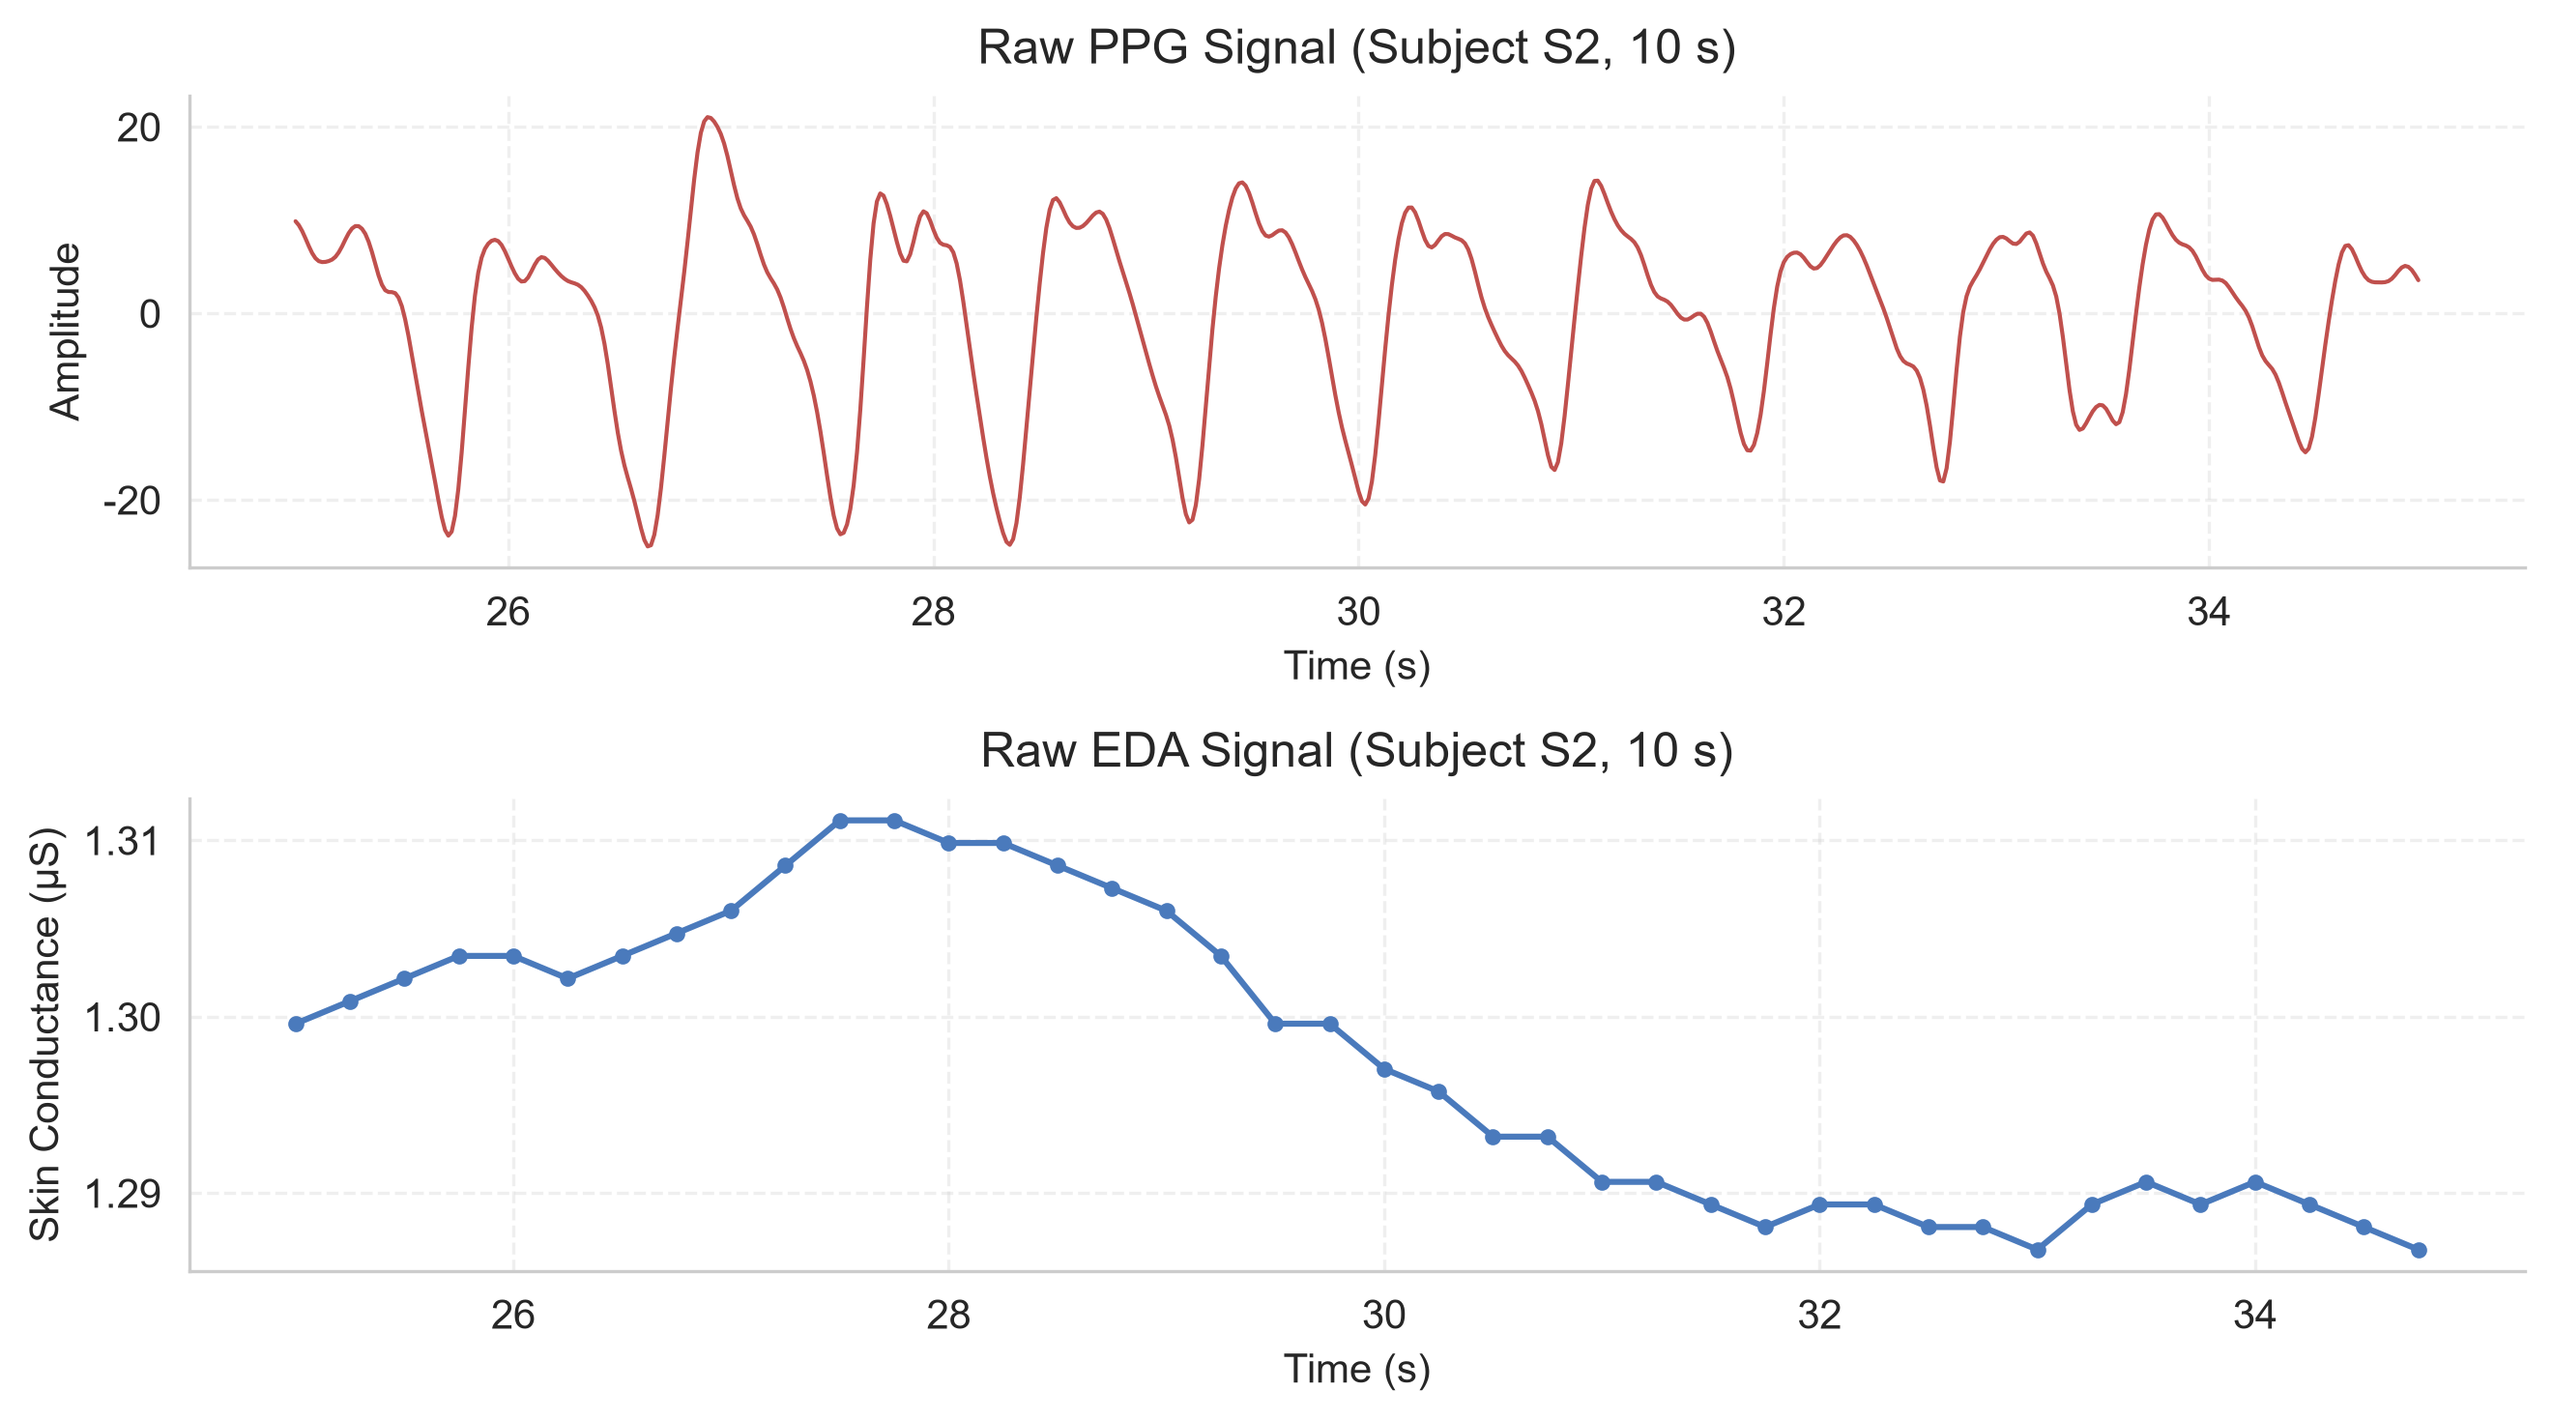
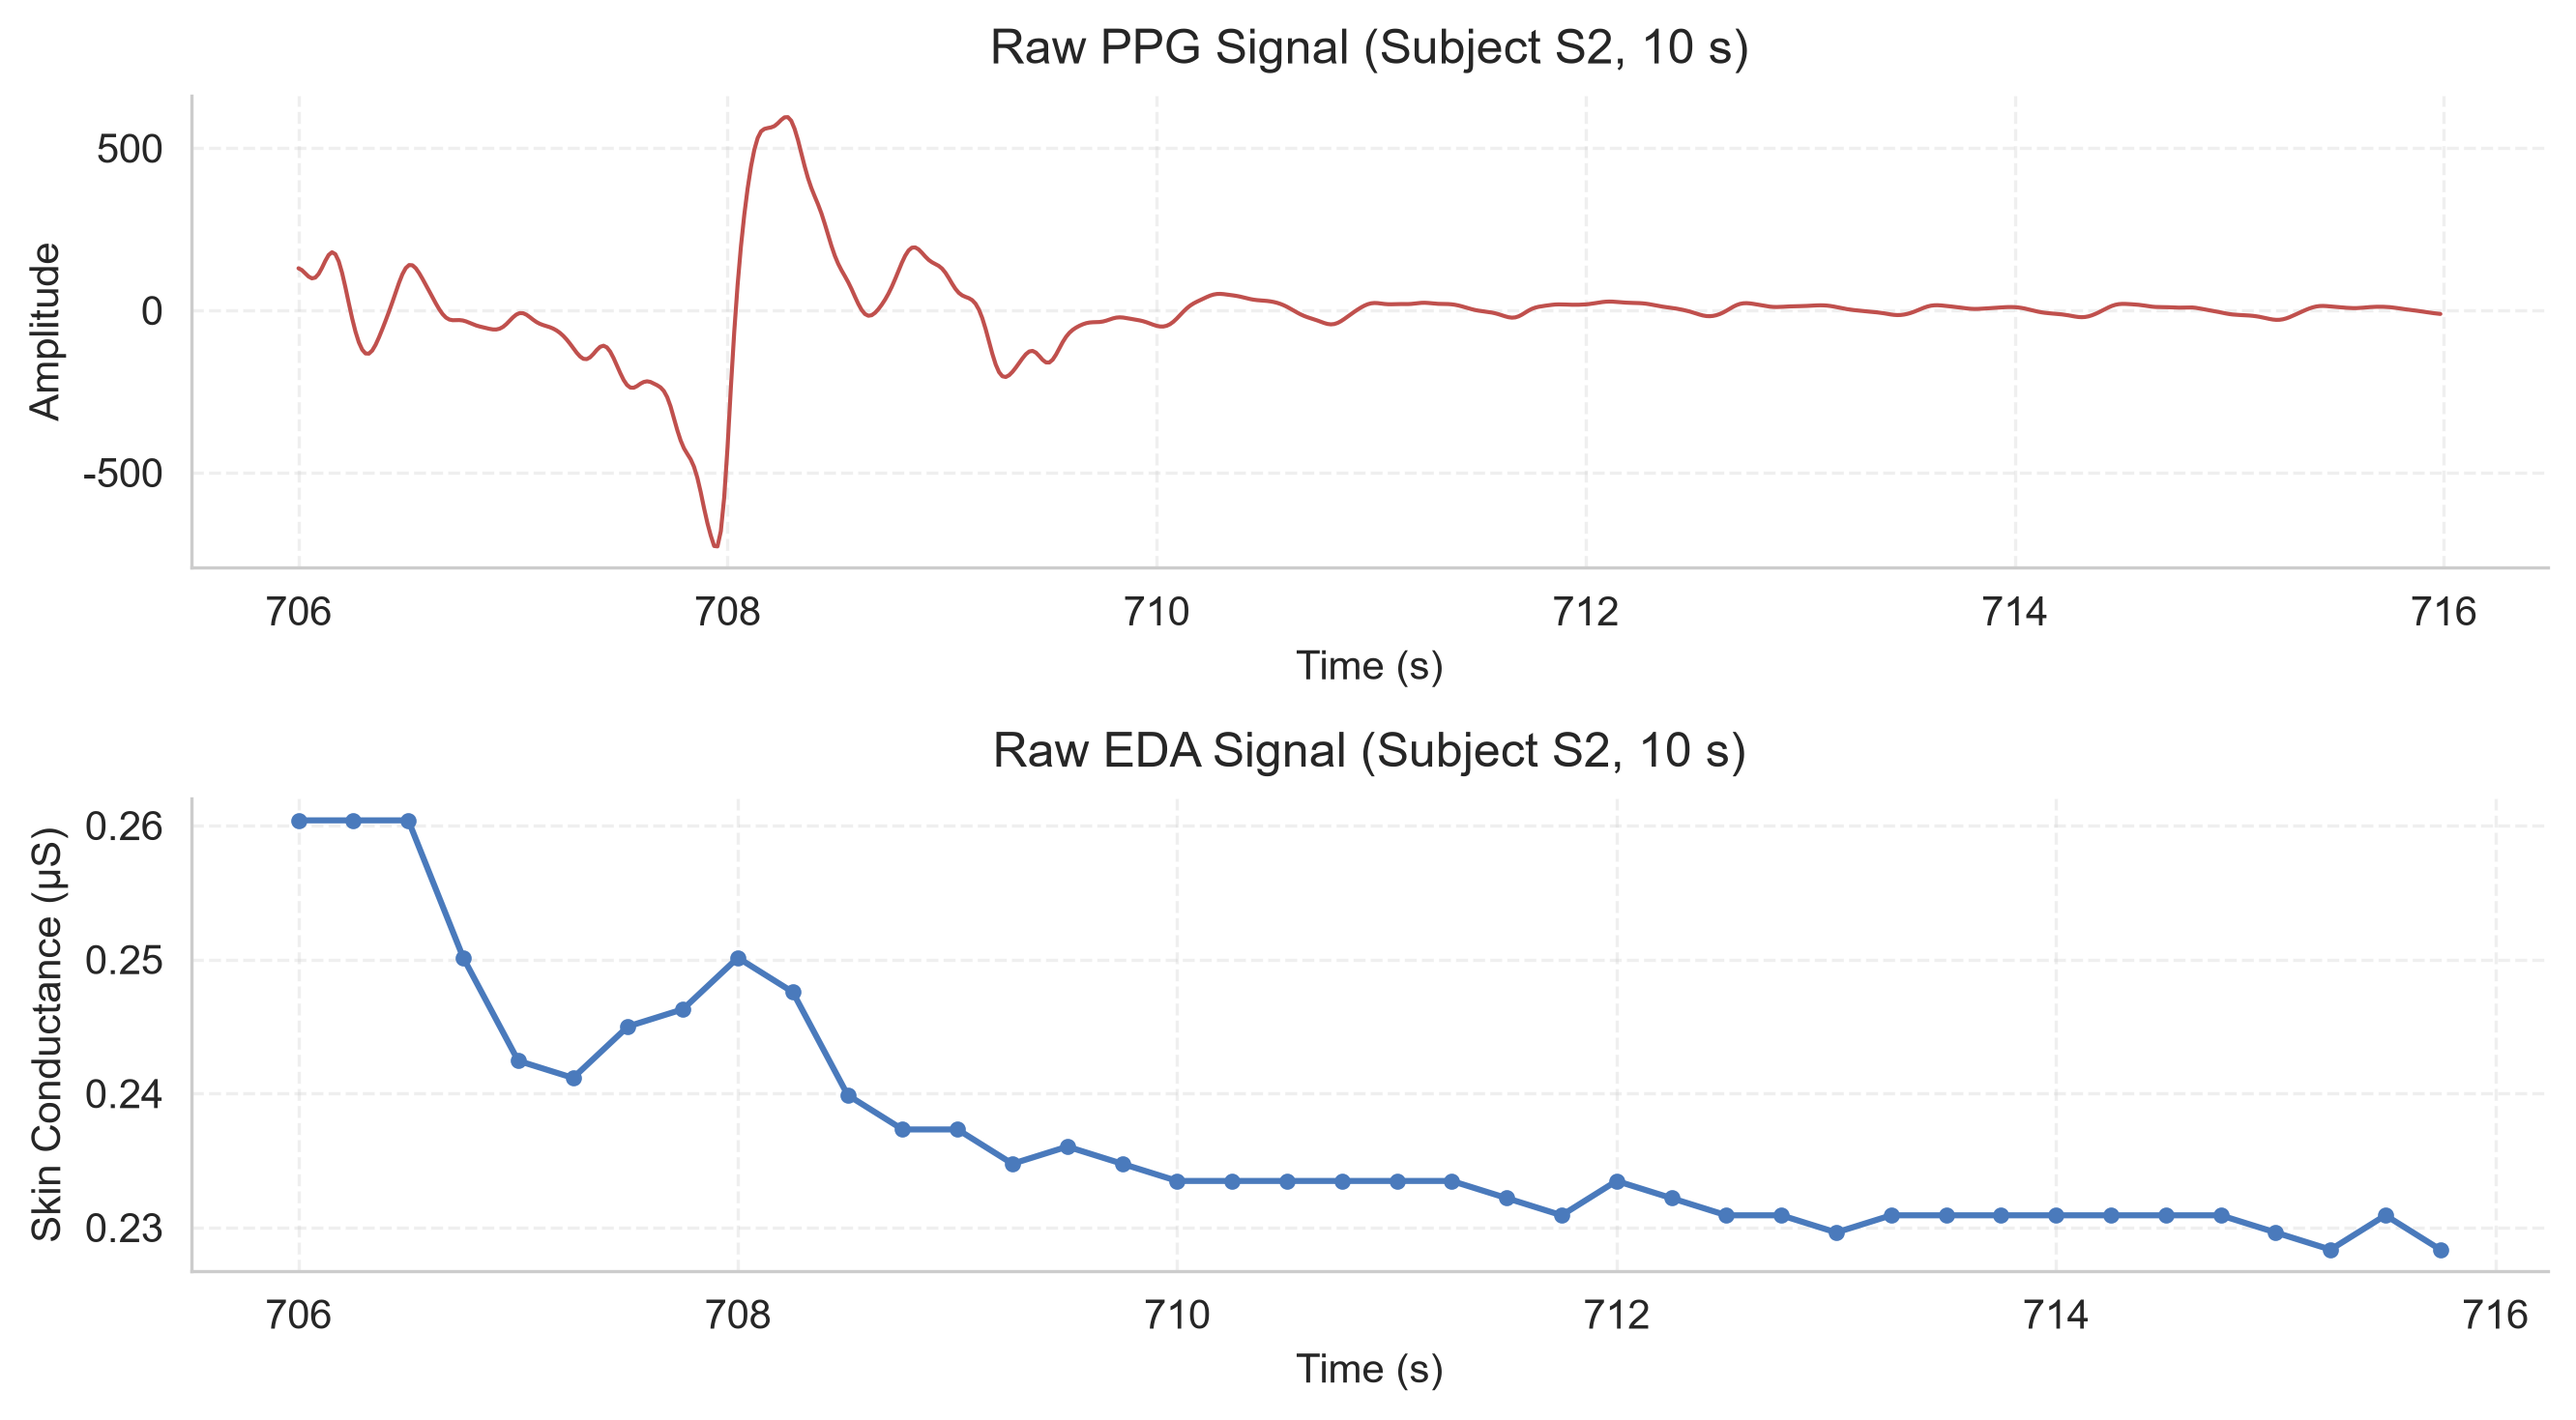
fix(figs): fig02 代表性选窗 + fig03 三频带标注
fig02: T0 改为数据驱动的干净基线窗(EDA-z=-0.47, 全记录中位数)
  - 原窗口落在 label=0 过渡段(z=+2.76 离群)致 z-score 看似异常
  - per-subject z-score 经验证正确: baseline -0.75 / stress +1.58 / amusement -0.57
fig03: 补 VLF(0.003-0.04Hz) 频带分色标注, 与正文4.2节三频带对齐
同步更新 图片说明.md 与论文 fig02/fig03 caption

diff --git a/scripts/make_figures.py b/scripts/make_figures.py
@@ -53,10 +53,25 @@ eda_f = lowpass_eda(eda_raw)
 bvp_z, _, _ = per_subject_zscore(bandpass_ppg(bvp_raw))
 eda_z, _, _ = per_subject_zscore(lowpass_eda(eda_raw))
 
-# 选取一个 10s 窗口用于波形图（取压力段中部，便于看到明显脉搏）
-T0 = 25 * FS_BVP  # 起点 25s
 N_PPG = 10 * FS_BVP  # 640
 N_EDA = 10 * FS_EDA  # 40
+
+# 数据驱动选窗：在干净基线段(label=1, 100%纯净)中选 EDA-z 最接近全局中位数的窗口，
+# 保证 fig01/fig02 展示的是代表性信号而非过渡段离群值。
+from src.data.loader import resample_label
+label_64 = resample_label(sig["label"], len(bvp_raw), FS_BVP)
+_gmed = float(np.median(eda_z))
+_best, _best_d = None, None
+for _s in range(0, len(label_64) - N_PPG, int(2 * FS_BVP)):
+    if (label_64[_s:_s + N_PPG] == 1).mean() == 1.0:  # 纯净基线
+        _e0 = _s // (FS_BVP // FS_EDA)
+        _zm = float(np.mean(eda_z[_e0:_e0 + N_EDA]))
+        _d = abs(_zm - _gmed)
+        if _best_d is None or _d < _best_d:
+            _best, _best_d = _s, _d
+T0 = _best if _best is not None else (25 * FS_BVP)
+print(f"  representative baseline window: T0={T0} ({T0/FS_BVP:.0f}s), "
+      f"EDA-z mean={np.mean(eda_z[T0//(FS_BVP//FS_EDA):T0//(FS_BVP//FS_EDA)+N_EDA]):+.2f}")
 
 
 # ════════════════════════════════════════════
@@ -117,11 +132,14 @@ fig, ax = plt.subplots(figsize=(8, 4.5))
 for name, (f, p) in seg_specs.items():
     ax.plot(f[f <= 8], p[f <= 8], color=STATE_COLORS[name], lw=1.5,
             label=f"{name.capitalize()} (30 s)", alpha=0.85)
-# 标注 LF/HF 区域（按心率频率，PPG 频谱主峰在心率处）
-ax.axvspan(0.04, 0.15, alpha=0.08, color="gray")
-ax.axvspan(0.15, 0.40, alpha=0.08, color="orange")
-ax.text(0.095, ax.get_ylim()[1] * 0.92 if seg_specs else 1, "LF", ha="center", fontsize=9)
-ax.text(0.27, ax.get_ylim()[1] * 0.92 if seg_specs else 1, "HF", ha="center", fontsize=9)
+# 标注三频带 VLF / LF / HF（与正文 4.2 节对齐）
+ax.axvspan(0.003, 0.04, alpha=0.10, color="purple", label="VLF (0.003–0.04 Hz)")
+ax.axvspan(0.04, 0.15, alpha=0.10, color="gold", label="LF (0.04–0.15 Hz)")
+ax.axvspan(0.15, 0.40, alpha=0.10, color="darkorange", label="HF (0.15–0.40 Hz)")
+_ylim_top = ax.get_ylim()[1] if seg_specs else 1
+ax.text(0.021, _ylim_top * 0.95, "VLF", ha="center", fontsize=8, color="purple")
+ax.text(0.095, _ylim_top * 0.95, "LF", ha="center", fontsize=8, color="olive")
+ax.text(0.27, _ylim_top * 0.95, "HF", ha="center", fontsize=8, color="darkorange")
 format_axes(ax, title="FFT Power Spectrum of PPG (Baseline vs Stress)",
             xlabel="Frequency", ylabel="Power", unit_x="Hz", unit_y="dB")
 ax.set_xlim(0, 8)

diff --git a/results/figures/图片说明.md b/results/figures/图片说明.md
@@ -31,13 +31,14 @@
 
 ### 图 2　滤波与标准化后的波形（fig02_filtered_signals.png）
 
-- **内容**：与图 1 相同时段的 PPG、EDA 信号经 Chebyshev II 带通（0.5–8 Hz）/ 低通（1 Hz）滤波与 per-subject Z-score 标准化后的结果。
-- **对照**：PPG 基线漂移消除、收缩峰形态清晰；EDA 围绕零均值波动。
-- **作用**：证明预处理链路的有效性。
+- **内容**：与图 1 相同时段（被试 S2 一段纯净基线，EDA-z 均值 −0.47，接近全记录中位数，具代表性）的 PPG、EDA 信号经 Chebyshev II 带通（0.5–8 Hz）/ 低通（1 Hz）滤波与 per-subject Z-score 标准化后的结果。
+- **对照**：PPG 基线漂移消除、收缩峰形态清晰，z 值围绕 0 波动（±0.3）；EDA 围绕 −0.47 波动，符合基线低于全记录均值的预期。
+- **z-score 有效性验证**：per-subject z-score 正确分离了三状态——S2 的 EDA z 中位数在基线 −0.75、压力 +1.58、娱乐 −0.57（raw 0.14/0.91/0.20 µS），呈现教科书级的交感神经激活差异，印证 N4 决策。
+- **作用**：证明预处理链路的有效性与标准化的生理合理性。
 
 ### 图 3　FFT 功率谱（fig03_fft_spectrum.png）
 
-- **内容**：被试 S2 在基线（30 s）与压力（30 s）两段 PPG 的单边功率谱密度对比，标注 LF / HF 频带。
+- **内容**：被试 S2 在基线（30 s）与压力（30 s）两段 PPG 的单边功率谱密度对比，标注 VLF / LF / HF 三频带（与正文 4.2 节对齐）。
 - **观察**：主峰位于约 1.2 Hz（对应心率 ~72 bpm）；压力段主频抬升、谱形变化，反映心率与自主神经调控的差异。
 - **坐标**：横轴 Frequency (Hz, 0–8)，纵轴 Power (dB)。
 
